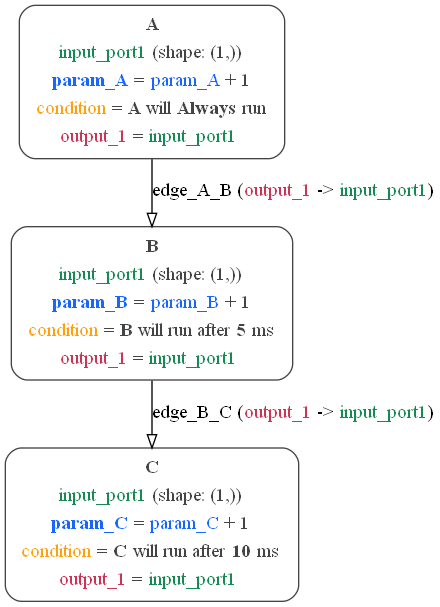
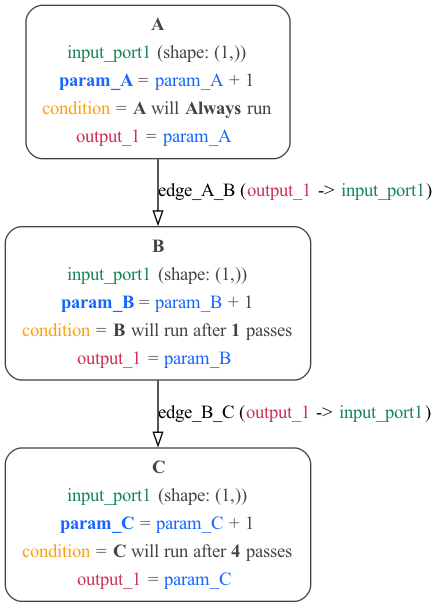
Updated Time interval condition to use AfterPass

diff --git a/examples/MDF/conditions/timeInterval.py b/examples/MDF/conditions/timeInterval.py
@@ -1,5 +1,5 @@
 """
-    Example of ModECI MDF - A simple 2 Node Graph satisfying the Time Interval condition
+    Example of ModECI MDF - A simple Graph satisfying a time based condition
 """
 import sys
 import os
@@ -20,7 +20,7 @@ def main():
         ip1 = InputPort(id="input_port1", shape="(1,)")
         n.input_ports.append(ip1)
 
-        n.output_ports.append(OutputPort(id="output_1", value=ip1.id))
+        n.output_ports.append(OutputPort(id="output_1", value="0"))
 
         if sender is not None:
             simple_connect(sender, n, graph)
@@ -30,19 +30,26 @@ def main():
     # node A
     a = create_simple_node(mod_graph, "A", sender=None)
     a.parameters.append(Parameter(id="param_A", value="param_A + 1"))
+    a.get_output_port("output_1").value = "param_A"
+
     # node B
     b = create_simple_node(mod_graph, "B", sender=a)
     b.parameters.append(Parameter(id="param_B", value="param_B + 1"))
+    b.get_output_port("output_1").value = "param_B"
+
     # node C
     c = create_simple_node(mod_graph, "C", sender=b)
     c.parameters.append(Parameter(id="param_C", value="param_C + 1"))
+    c.get_output_port("output_1").value = "param_C"
 
     # See documentation: https://kmantel.github.io/graph-scheduler/Condition.html#graph_scheduler.condition.TimeInterval for more arguments you can add to the Time Interval condition
 
-    # A will always run, B starts executing after 5ms while B after 10ms
     cond_a = Condition(type="Always")
-    cond_b = Condition(type="TimeInterval", start=5)
-    cond_c = Condition(type="TimeInterval", start=10)
+    cond_b = Condition(type="AfterPass", n=1)
+    cond_c = Condition(
+        type="AfterPass", n=4
+    )  #  AfterEnvironmentStateUpdate, AfterPass, AfterNEnvironmentSequences
+
     mod_graph.conditions = ConditionSet(
         node_specific={a.id: cond_a, b.id: cond_b, c.id: cond_c},
     )
@@ -59,19 +66,15 @@ def main():
         format = FORMAT_TENSORFLOW if "-tf" in sys.argv else FORMAT_NUMPY
         eg = EvaluableGraph(mod_graph, verbose=verbose)
 
-        # Using a time series to execute the graph 5 times
-        dt = 1
-        duration = 5
-        t = 0
-        times = []
-        while t <= duration:
-            times.append(t)
-            print("===== Evaluating at t = %s  ======" % (t))
-            if t == 0:
-                eg.evaluate(array_format=format)
-            else:
-                eg.evaluate(time_increment=dt)
-            t += dt
+        # Evaluate once, the conditions set how many times each node executes
+        eg.evaluate(array_format=format)
+
+        for n in ["A", "B", "C"]:
+            print(
+                "\n Final value of node %s: %s"
+                % (n, eg.enodes[n].evaluable_outputs["output_1"].curr_value)
+            )
+
     if "-graph" in sys.argv:
         mod.to_graph_image(
             engine="dot",

diff --git a/src/modeci_mdf/interfaces/graphviz/exporter.py b/src/modeci_mdf/interfaces/graphviz/exporter.py
@@ -382,6 +382,14 @@ def mdf_to_graphviz(
                         )
                     )
                     info += "</td></tr>"
+                elif ns.type == "AfterPass":
+                    info += "<tr><td>{}{} = <b>{}</b> will run after <b>{}</b> passes".format(
+                        format_label(" "),
+                        format_condition("condition"),
+                        node.id,
+                        args.get("n"),
+                    )
+                    info += "</td></tr>"
                 elif ns.type == "Threshold":
                     info += "<tr><td>{}{} = <b>{}</b> satisfied <b>{}</b> <b>{}</b> <b>{}</b>".format(
                         format_label(" "),

diff --git a/examples/MDF/conditions/README.md b/examples/MDF/conditions/README.md
@@ -1,6 +1,6 @@
 # Conditions in MDF
 
-In MDF, Conditions are used to specify how many times and when individual nodes are allowed to be executed. MDF Conditions are created using the Graphscheduler Library and to use conditions in MDF, the graphscheduler library must be installed. There are different types of conditions which are categorized into six and they includes:
+In MDF, Conditions are used to specify how many times and when individual nodes are allowed to be executed. MDF Conditions are created using the [Graph Scheduler library](https://github.com/kmantel/graph-scheduler), which is included as a [standard dependency of MDF](https://github.com/ModECI/MDF/blob/main/setup.cfg). There are different types of conditions which are categorized into six and they includes:
 
 **Generic Condition** - This is satisfied when a user-specified function and set of arguments evaluates to **True**, They are also used for calling [custom conditions](https://kmantel.github.io/graph-scheduler/Condition.html#condition-custom). Examples of Conditions that are categorized under Generic condition can be found [here](https://kmantel.github.io/graph-scheduler/Condition.html#conditions-generic). see [here](https://github.com/ModECI/MDF/blob/main/examples/MDF/conditions/threshold.py) for generic condition example in MDF.
 
@@ -14,16 +14,15 @@ In MDF, Conditions are used to specify how many times and when individual nodes 
 
 **Convenience Condition** - This condition is based on other Conditions, condensed for convenience. Conditions that are categorized as convenience can be found [here](https://kmantel.github.io/graph-scheduler/Condition.html#conditions-convenience)
 
-These different category of conditions can be used interchangeably for different nodes in a graphs (e.g if there are two nodes in a graph Static conditions can be used for the first node and Time based condition can be used for the second node) Likewise, a condition category  can also be used for different nodes in a graph(e.g if there are two nodes in a graph, Node based conditions can be used for the two nodes). To read more about conditions in MDF see [here](https://kmantel.github.io/graph-scheduler/Condition.html)
+These different category of conditions can be used interchangeably for different nodes in a graphs (e.g if there are two nodes in a graph Static conditions can be used for the first node and Time based condition can be used for the second node). Likewise, a condition category can also be used for different nodes in a graph (e.g if there are two nodes in a graph, Node based conditions can be used for the two nodes). To read more about conditions in Graph Scheduler see [here](https://kmantel.github.io/graph-scheduler/Condition.html).
 
 
 ## Conditions Examples
 
-These are some graphical examples illustrating the different applications of different categories of conditions in MDF.
-
-Examples of Python, JSON and YAML files illustrating the use of conditions in MDF.
+These are some graphical examples (and associated Python, JSON and YAML files) illustrating the use of different categories of conditions in MDF.
 
 [Threshold](#threshold-example) | [Time Interval](#time-interval-example) | [EveryNCalls](#everyncalls-example) | [Composite](#composite-example)
+
 ### Generic condition example
 
 [Python source](threshold.py)  | [JSON](threshold_condition.json) | [YAML](threshold_condition.yaml)
@@ -32,8 +31,9 @@ A simple example with 1 [Node](../../../docs/README.md#node)
 
 <p align="center"><img src="images/threshold.png" alt="threshold"/></p>
 
-The python script used for this example can be executed using `python threshold.py -run`
-**NOTE:** Looking at the graph above, the threshold condition is used to terminate the model when the comparison between the value of the parameter(param_A) and threshold using the comparator evaluates to **TRUE**. For this condition to be satisfied, the graph node **A** must be run 5 times because the threshold condition is set to be greater or equal to five which will make the order of executions of nodes to be: (A ,A, A, A, A) after which the output of A will be five and the condition will be satisfied and terminated.
+The Python script used for this example can be executed using `python threshold.py -run`. Also, the graph above can be generated with `python threshold.py -graph`.
+
+**NOTE:** Looking at the graph above, the threshold condition is used to terminate the model when the comparison between the value of the parameter (**param_A**) and the threshold using the comparator evaluates to **TRUE**. For this condition to be satisfied, the graph node **A** must be run 5 times because the threshold condition is set to be greater or equal to five which will make the order of executions of nodes to be: **(A, A, A, A, A)** after which the output of A will be five and the condition will be satisfied and terminated.
 
 
 ###  Static and Node based conditions Examples
@@ -44,10 +44,13 @@ Another simple example with 3 [Nodes](../../../docs/README.md#node).
 
 <p align="center"><img width="400" src="images/everyncalls.png" alt="everyncalls"/></p>
 
-The python script used for this example can be executed using `python everyNCalls.py -run`
-**NOTE:** Looking at the graph above, the conditions used in this case are used as a node specific conditions. The first node (A) is not dependent on any node and the condition will always run, the second node(B) is dependent on the first node as it will only run after the first node(A) has been ran two times, it wont run if this condition is not satisfied, third node(C) is dependent on the second node(B) as it will only run if the B node has ran three times. But because the B node is dependent on A node to run, the C node has to inherit the dependency of the B nodes, i.e the order of execution of this graph will be: ( A, A, B, A, A, B, A, A, B, C). In simpler terms, the A node will always run (A), the B node will run only when the A node has been run two times (A, A, B), The C nodes will only run when the B nodes has run for three times (A, A, B, A, A, B, A, A, B, C)
+The Python script used for this example can be executed using `python everyNCalls.py -run`.
 
-### Time Interval condition example
+**NOTE:** Looking at the graph above, the conditions used in this case are node specific conditions. The first node **A** is not dependent on any node and the condition will always run, the second node **B** is dependent on the first node as it will only run after **A** has been run two times, it won't run if this condition is not satisfied. The third node **C** is dependent on the second node **B** as it will only run if the **B** node has ran three times. But because the B node is dependent on A node to run, the C node has to inherit the dependency of the B nodes, i.e the order of execution of this graph will be: **(A, A, B, A, A, B, A, A, B, C)**.
+
+In simpler terms, **A** will always run, **B** will run only when **A** has been run two times **(A, A, B)**, **C** will only run when **B** has run for three times, so **(A, A, B, A, A, B, A, A, B, C)**.
+
+### Time based condition example
 
 [Python source](timeInterval.py) | [JSON](timeinterval_condition.json) | [YAML](timeinterval_condition.yaml)
 
@@ -55,8 +58,20 @@ A simple 2 [Nodes](../../../docs/README.md#node) graph satisfying the [ Time Int
 
 <p align="center"><img src="images/timeinterval.png" alt="time interval"/></p>
 
-The python script used for this example can be executed using `python timeInterval.py -run`
-**NOTE:** Looking at the graph above, the time interval condition is used as a node specific condition and each nodes are not dependent on each other. Two conditions are to be satisfied for the time interval condition and they includes the time step and the time interval. The second node (B) condition is to run after five milli-seconds(ms) while the third node (C) will run after ten ms and all nodes must be executed in each time step. This condition can make the nodes run indefinitely so the conditional statements (if, while) is strongly advised to be used when evaluating graphs that uses time interval condition. In this case, the conditional statement used is for the nodes to run when the t(time step) <= duration. This  will remain true until t > duration after which the condition will be terminated. Because this graph is schedule to run while t <= duration (in this case duration = 5), the graph will run in six time steps (remember, numbers that are less or equal to 5 includes:0,1,2,3,4,5) and all nodes must be run in each time step, if the condition of a node has not been met in a time step, the time step will rerun until the condition is met after which the time step will be terminated. In the first time step i.e when t=0, the A node ran at 6ms, the B node ran at 7ms and because the condition of the C node has not been met, the A node ran again after which the B node ran at 10ms, this made the condition of the C node to be satisfied as it will run after 10ms and it ran after which the first t i.e t=0 was terminated because all the nodes has ran in this time step and the order of execution of the graph at t=0 is (A,B,A,B,C) then the second time stamp t=1 was activated. Because the nodes time condition has been satisfied in the first time step, the all the nodes were able to run at a go and the order of execution for t=1 was (A,B,A,B,A,B,C,A,B,C). This continued until the final time step at t=5 where the order of execution of the graph is (A, B, A, B, C, A, B, C, A, B, C, A, B, C, A, B, C, A, B, C). After which it stopped running because the conditional statement is no longer **TRUE** and the trial was be terminated.
+The Python script used for this example can be executed using `python timeInterval.py -run`.
+
+**NOTE:** This example lets the conditions fully specify how many times a node gets executed, so unlike the other examples there is just one call to `evaluate()` on the graph in [timeInterval.py](timeInterval.py). In the graph above, node **A** gets excuted **Always**.
+Node **B** has an **AfterPass** condition, specifying it will only run after the count of passes of the runnable nodels on the graph is greater than n=1.
+Note the number of the pass on the first time is 0. Node **C** has an **AfterPass** condition with n=4. The sequence of execution is **(A, A, A, B, A, B, A, B, A, B, C)**. This can be understood as:
+
+
+- **A** - pass 0, just A runs
+- **A** - pass 1, just A runs
+- **A, B** - pass 2, greater than n=1 for B, so B runs too
+- **A, B** - pass 3, greater than n=1 for B, so B runs too
+- **A, B** - pass 4, greater than n=1 for B, so B runs too
+- **A, B, C** - pass 5, greater than n=4 for C, so C runs too
+
 
 
 
@@ -69,5 +84,6 @@ A simple example with 3 [Nodes](../../../docs/README.md#node).
 <p align="center"><img width="400" src="images/composite_example.png" alt="composite condition"/></p>
 
 
-The python script used for this example can be executed using `python composite_condition_example.py -run`
-**NOTE:** Looking at the graph above, the **All** condition is used to terminate the execution when all of the condition dependencies has been met. The dependency used in this graph is the **aftercall** (Python script can be found [here](composite_condition_example.py)) which is set on the B node and C node. The AfterCall condition is satisfied when the n (the number of executions of dependency) has been surpassed e.g, if n=2, and the dependency is on B node, the aftercall condition will be met when the B node has been run more than 2 times. The order of execution of this graph is (A, B, C, A, B, C, A, B, C, A, B, C). The B node has an aftercall dependency of n=2 which made the B nodes to run until it has surpass the number of execution set to it and the order of execution for the B node will be (A,B,C,A,B,C,A,B). Because the B nodes has run for more than two times, the condition has been met and the trial was terminated. The C node has an aftercall dependency of n=3 which will made the C node to run until it has surpass the number of execution and the order of execution of the C node will be (A,B,C,A,B,C,A,B,C,A,B,C). When the C node ran for more than Three times, the condition was met and the trial was terminated.
+The Python script used for this example can be executed using `python composite_condition_example.py -run`
+
+**NOTE:** Looking at the graph above, the **All** condition is used to terminate the execution when all of the condition dependencies have been met. The dependency used in this graph is **AfterCall** which is set on the **B** node and **C** node. The AfterCall condition is satisfied when the n (the number of executions of dependency) has been surpassed e.g, if n=2, and the dependency is on **B**, the aftercall condition will be met when **B** has been run more than 2 times. **B** has an aftercall dependency of n=2 which made **B** to run until it has surpass the number of execution set to it and the order of execution for the B node will be **(A,B,C,A,B,C,A,B)**. Because **B** has run for more than two times, the condition has been met, but the the trial was not terminated, as not all conditions were met. The **C** node has an aftercall dependency of n=3 which will made **C** run until it has surpass the number of execution and the order of execution will be **(A,B,C,A,B,C,A,B,C,A,B,C)**. When **C** ran for more than 3 times, the condition was met and the trial was terminated.
